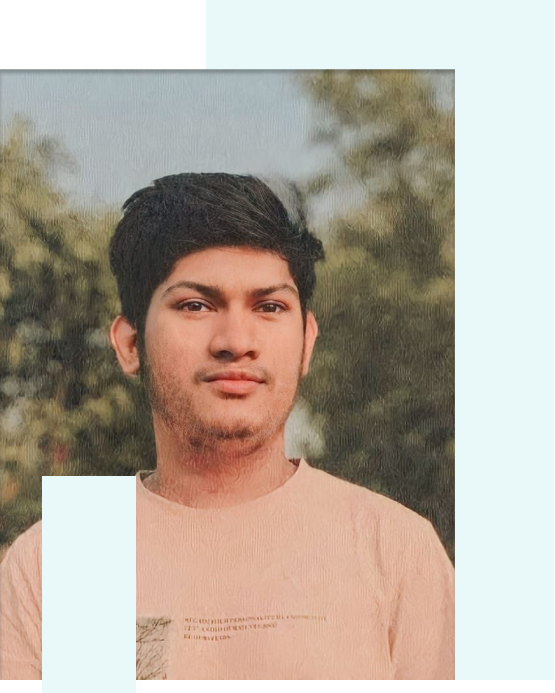
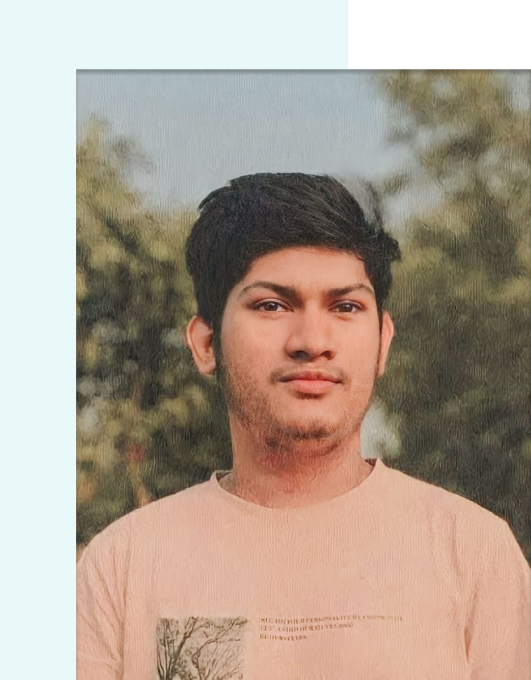
about section added

diff --git a/rifolio/src/Pages/Home/About.jsx b/rifolio/src/Pages/Home/About.jsx
@@ -1,0 +1,92 @@
+/* eslint-disable react/prop-types */
+/* eslint-disable react/no-unescaped-entities */
+import { FaHtml5, FaCss3Alt, FaReact, FaNode } from "react-icons/fa";
+import { IoLogoJavascript } from "react-icons/io5";
+import { SiTailwindcss } from "react-icons/si";
+import { SiExpress, SiVite } from "react-icons/si";
+import { SiMongodb } from "react-icons/si";
+import { SiDaisyui } from "react-icons/si";
+import hero from "../../assets/landing.png";
+
+const Tooltip = ({ text, children }) => {
+  return (
+    <div className="relative group">
+      {children}
+      <div className="opacity-0 text-white text-xs rounded-md py-2 absolute z-10 group-hover:opacity-100 bottom-full left-1/2 transform -translate-x-1/2">
+        {text}
+        <div className="border-t-4 mx-auto mt-2"></div>
+      </div>
+    </div>
+  );
+};
+
+const About = () => {
+  return (
+    <div className="max-w-6xl mx-auto grid grid-cols-3 min-h-screen text-green-100">
+      <div className=" mt-10">
+        <img src={hero} alt="landing" />
+      </div>
+      <div className="col-span-2 px-5 space-y-5">
+        <h1 className="text-4xl mt-20 font-bold">
+          I'm a{" "}
+          <span className="text-[#3CD7A1] hover:text-orange-400 ease-in-out duration-500">
+            Frontend Developer
+          </span>{" "}
+          from{" "}
+          <span className="text-[#3CD7A1] hover:text-orange-400 ease-in-out duration-500">
+            Dhaka, Bangladesh
+          </span>
+          .
+        </h1>
+        <p>
+          I enjoy talking complex problems and turning them into simple and
+          beautiful interface designs. I also love the logic and structure of
+          coding and always strive to write elegant and efficient code whether
+          it be HTML CSS or any other languages. When I'm not coding or pushing
+          pixels, you can find me in the gym.
+        </p>
+        <p className="text-3xl font-bold pb-5">
+          I'm <span className="text-[#3CD7A1]">skilled</span> in
+        </p>
+        <div className="space-y-14">
+          <div className="flex justify-between text-5xl text-[#3CD7A1]">
+            <Tooltip text="HTML5">
+              <FaHtml5 />
+            </Tooltip>
+            <Tooltip text="CSS3">
+              <FaCss3Alt />
+            </Tooltip>
+            <Tooltip text="Tailwind CSS">
+              <SiTailwindcss />
+            </Tooltip>
+            <Tooltip text="DaisyUI">
+              <SiDaisyui />
+            </Tooltip>
+            <Tooltip text="JavaScript">
+              <IoLogoJavascript />
+            </Tooltip>
+          </div>
+          <div className="flex justify-between text-5xl text-[#3CD7A1]">
+            <Tooltip text="Vite">
+              <SiVite />
+            </Tooltip>
+            <Tooltip text="React">
+              <FaReact />
+            </Tooltip>
+            <Tooltip text="Node.js">
+              <FaNode />
+            </Tooltip>
+            <Tooltip text="Express.js">
+              <SiExpress />
+            </Tooltip>
+            <Tooltip text="MongoDB">
+              <SiMongodb />
+            </Tooltip>
+          </div>
+        </div>
+      </div>
+    </div>
+  );
+};
+
+export default About;

diff --git a/rifolio/src/Pages/Home/Components/Banner.jsx b/rifolio/src/Pages/Home/Components/Banner.jsx
@@ -48,8 +48,9 @@ const Banner = () => {
         </p>
         <p>{currentTime}. </p>
         <span className="text-[#3CD7A1] font-semibold hover:text-orange-400 duration-700 ease-in-out">
-          Available for works
+          Available for works.
         </span>
+        
         <div className="flex space-x-5">
             <button className="btn bg-[#3CD7A1] hover:bg-orange-400 text-black duration-500 ease-in-out"> Download Resume</button>
             <button className="btn btn-outline border-orange-400 border-2 text-orange-400 hover:border-[#3CD7A1] hover:bg-[#3CD7A1] duration-500 ease-in-out hover:text-black">Hire Me</button>

diff --git a/rifolio/src/Pages/Home/Home.jsx b/rifolio/src/Pages/Home/Home.jsx
@@ -1,3 +1,4 @@
+import About from "./About";
 import Banner from "./Components/Banner";
 import Navbar from "./Components/Navbar";
 
@@ -6,6 +7,7 @@ const Home = () => {
         <div>
             <Navbar></Navbar>
             <Banner></Banner>
+            <About></About>
         </div>
     );
 };
